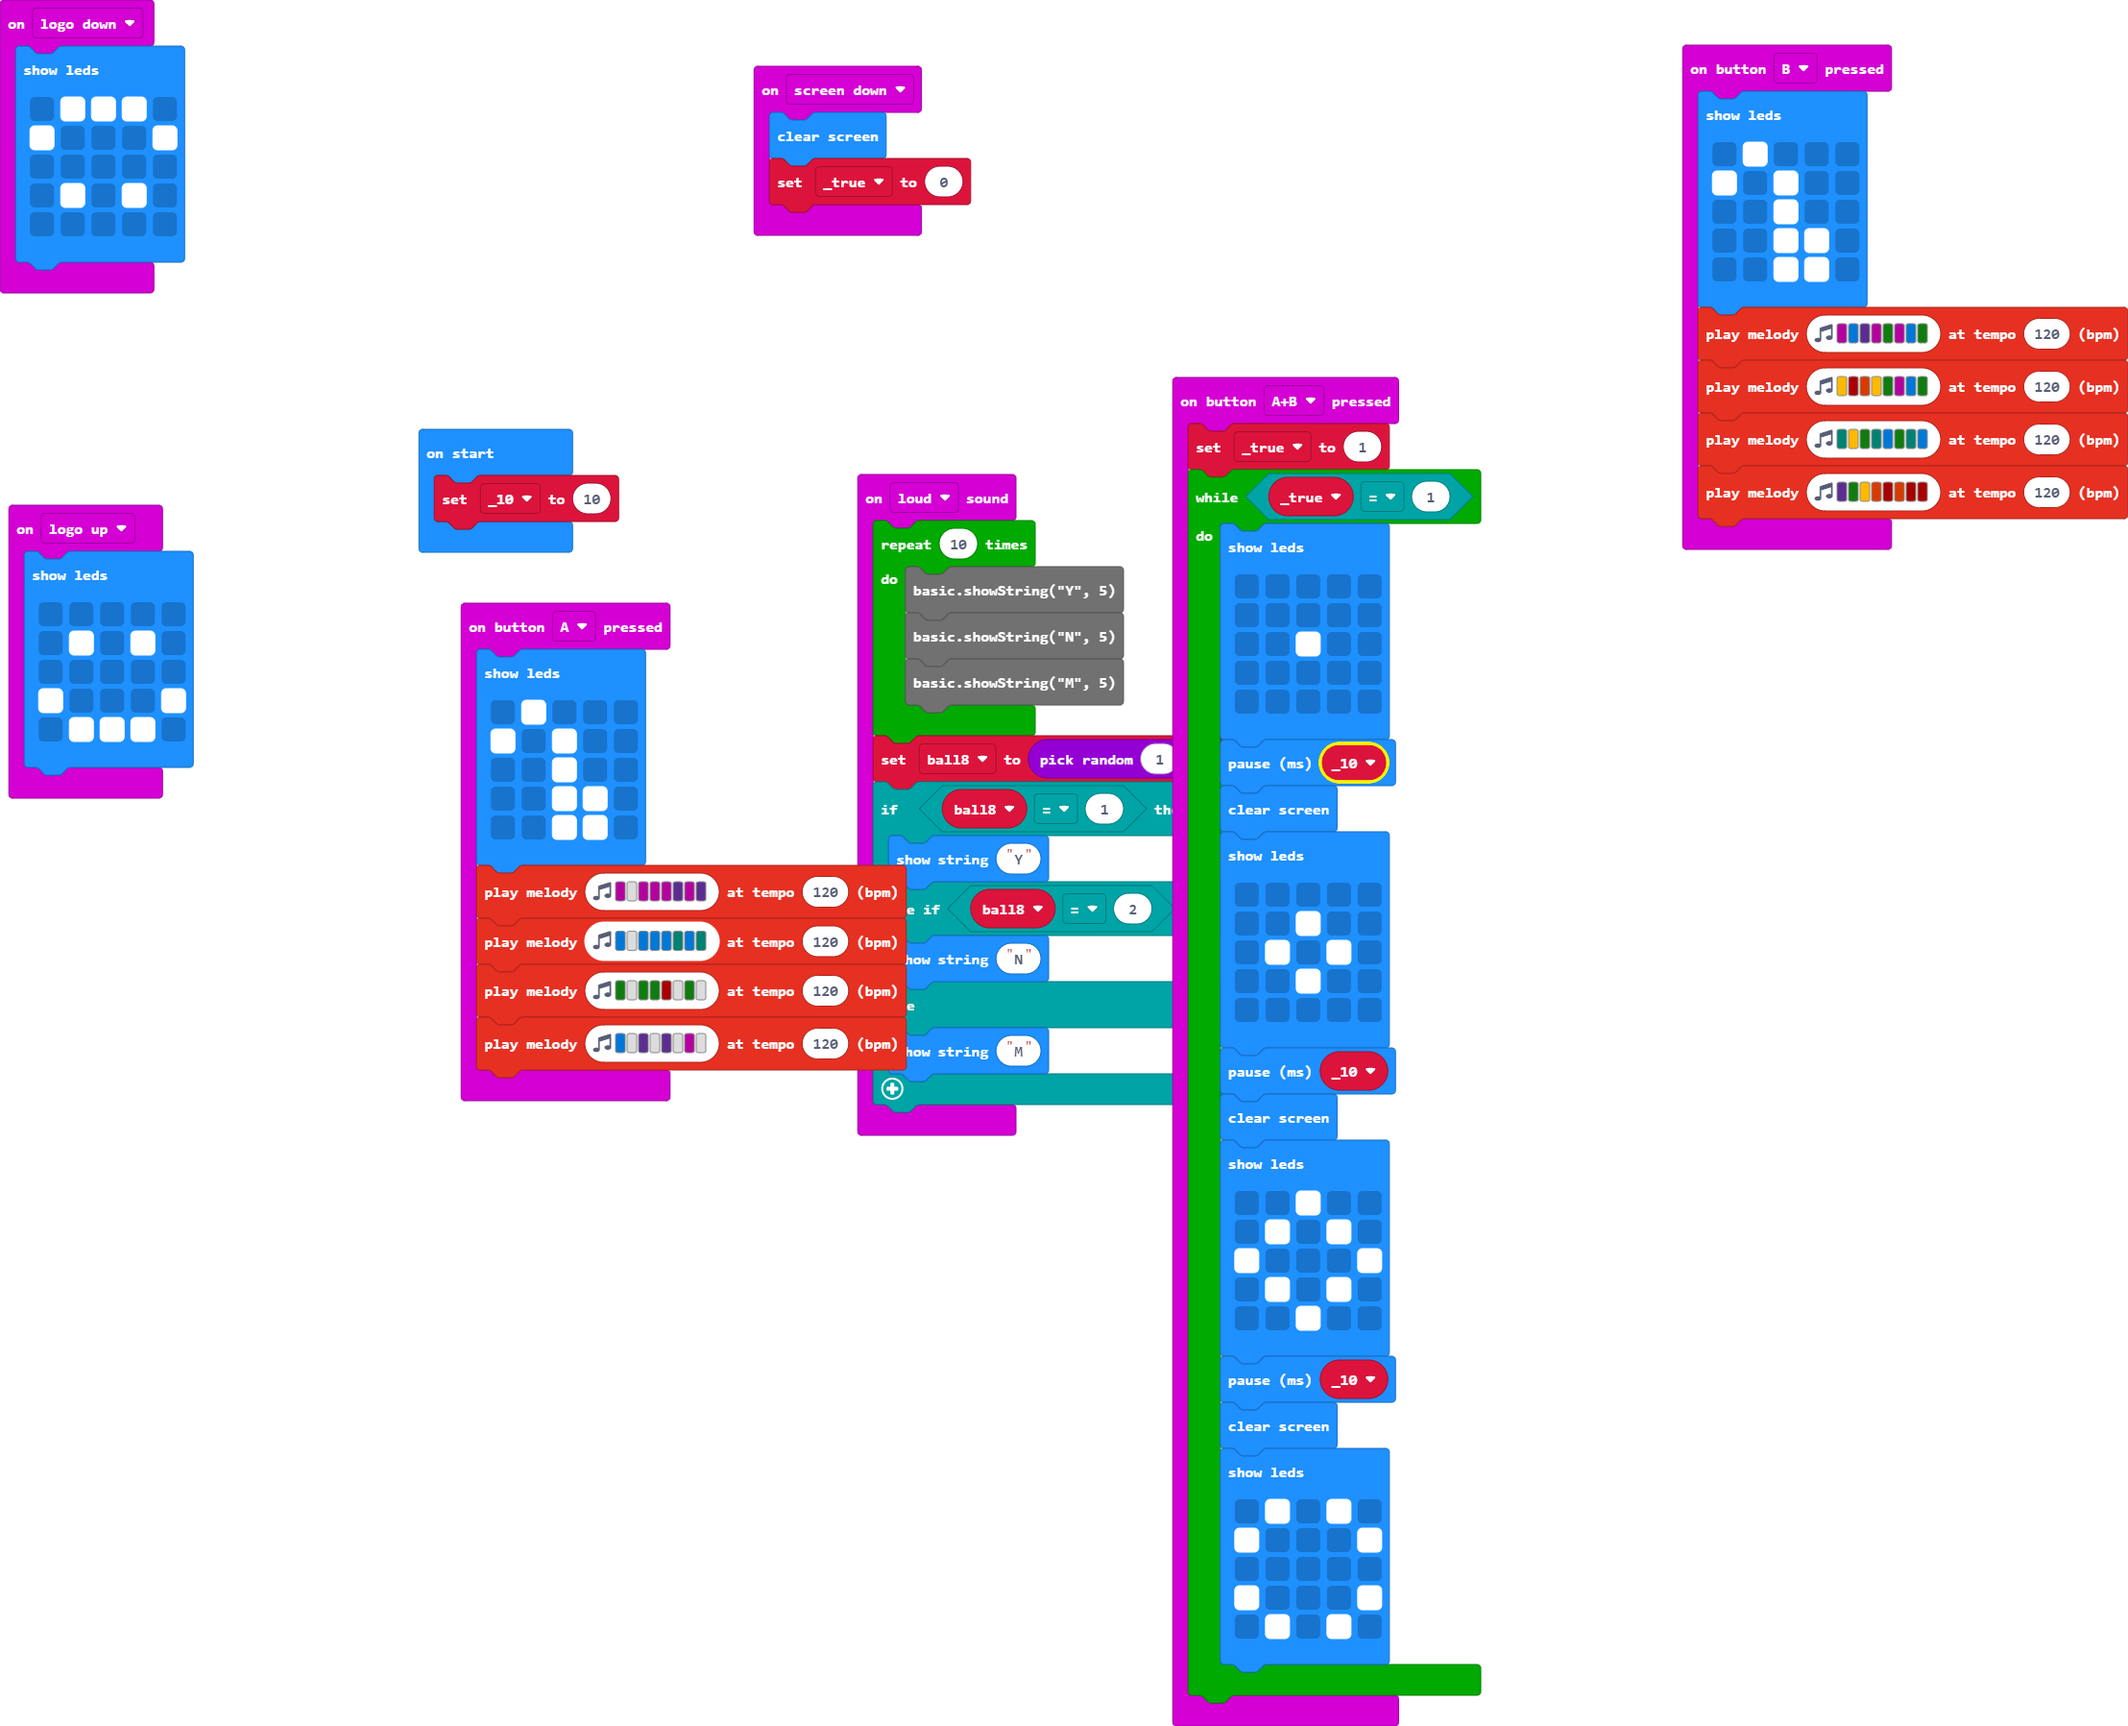
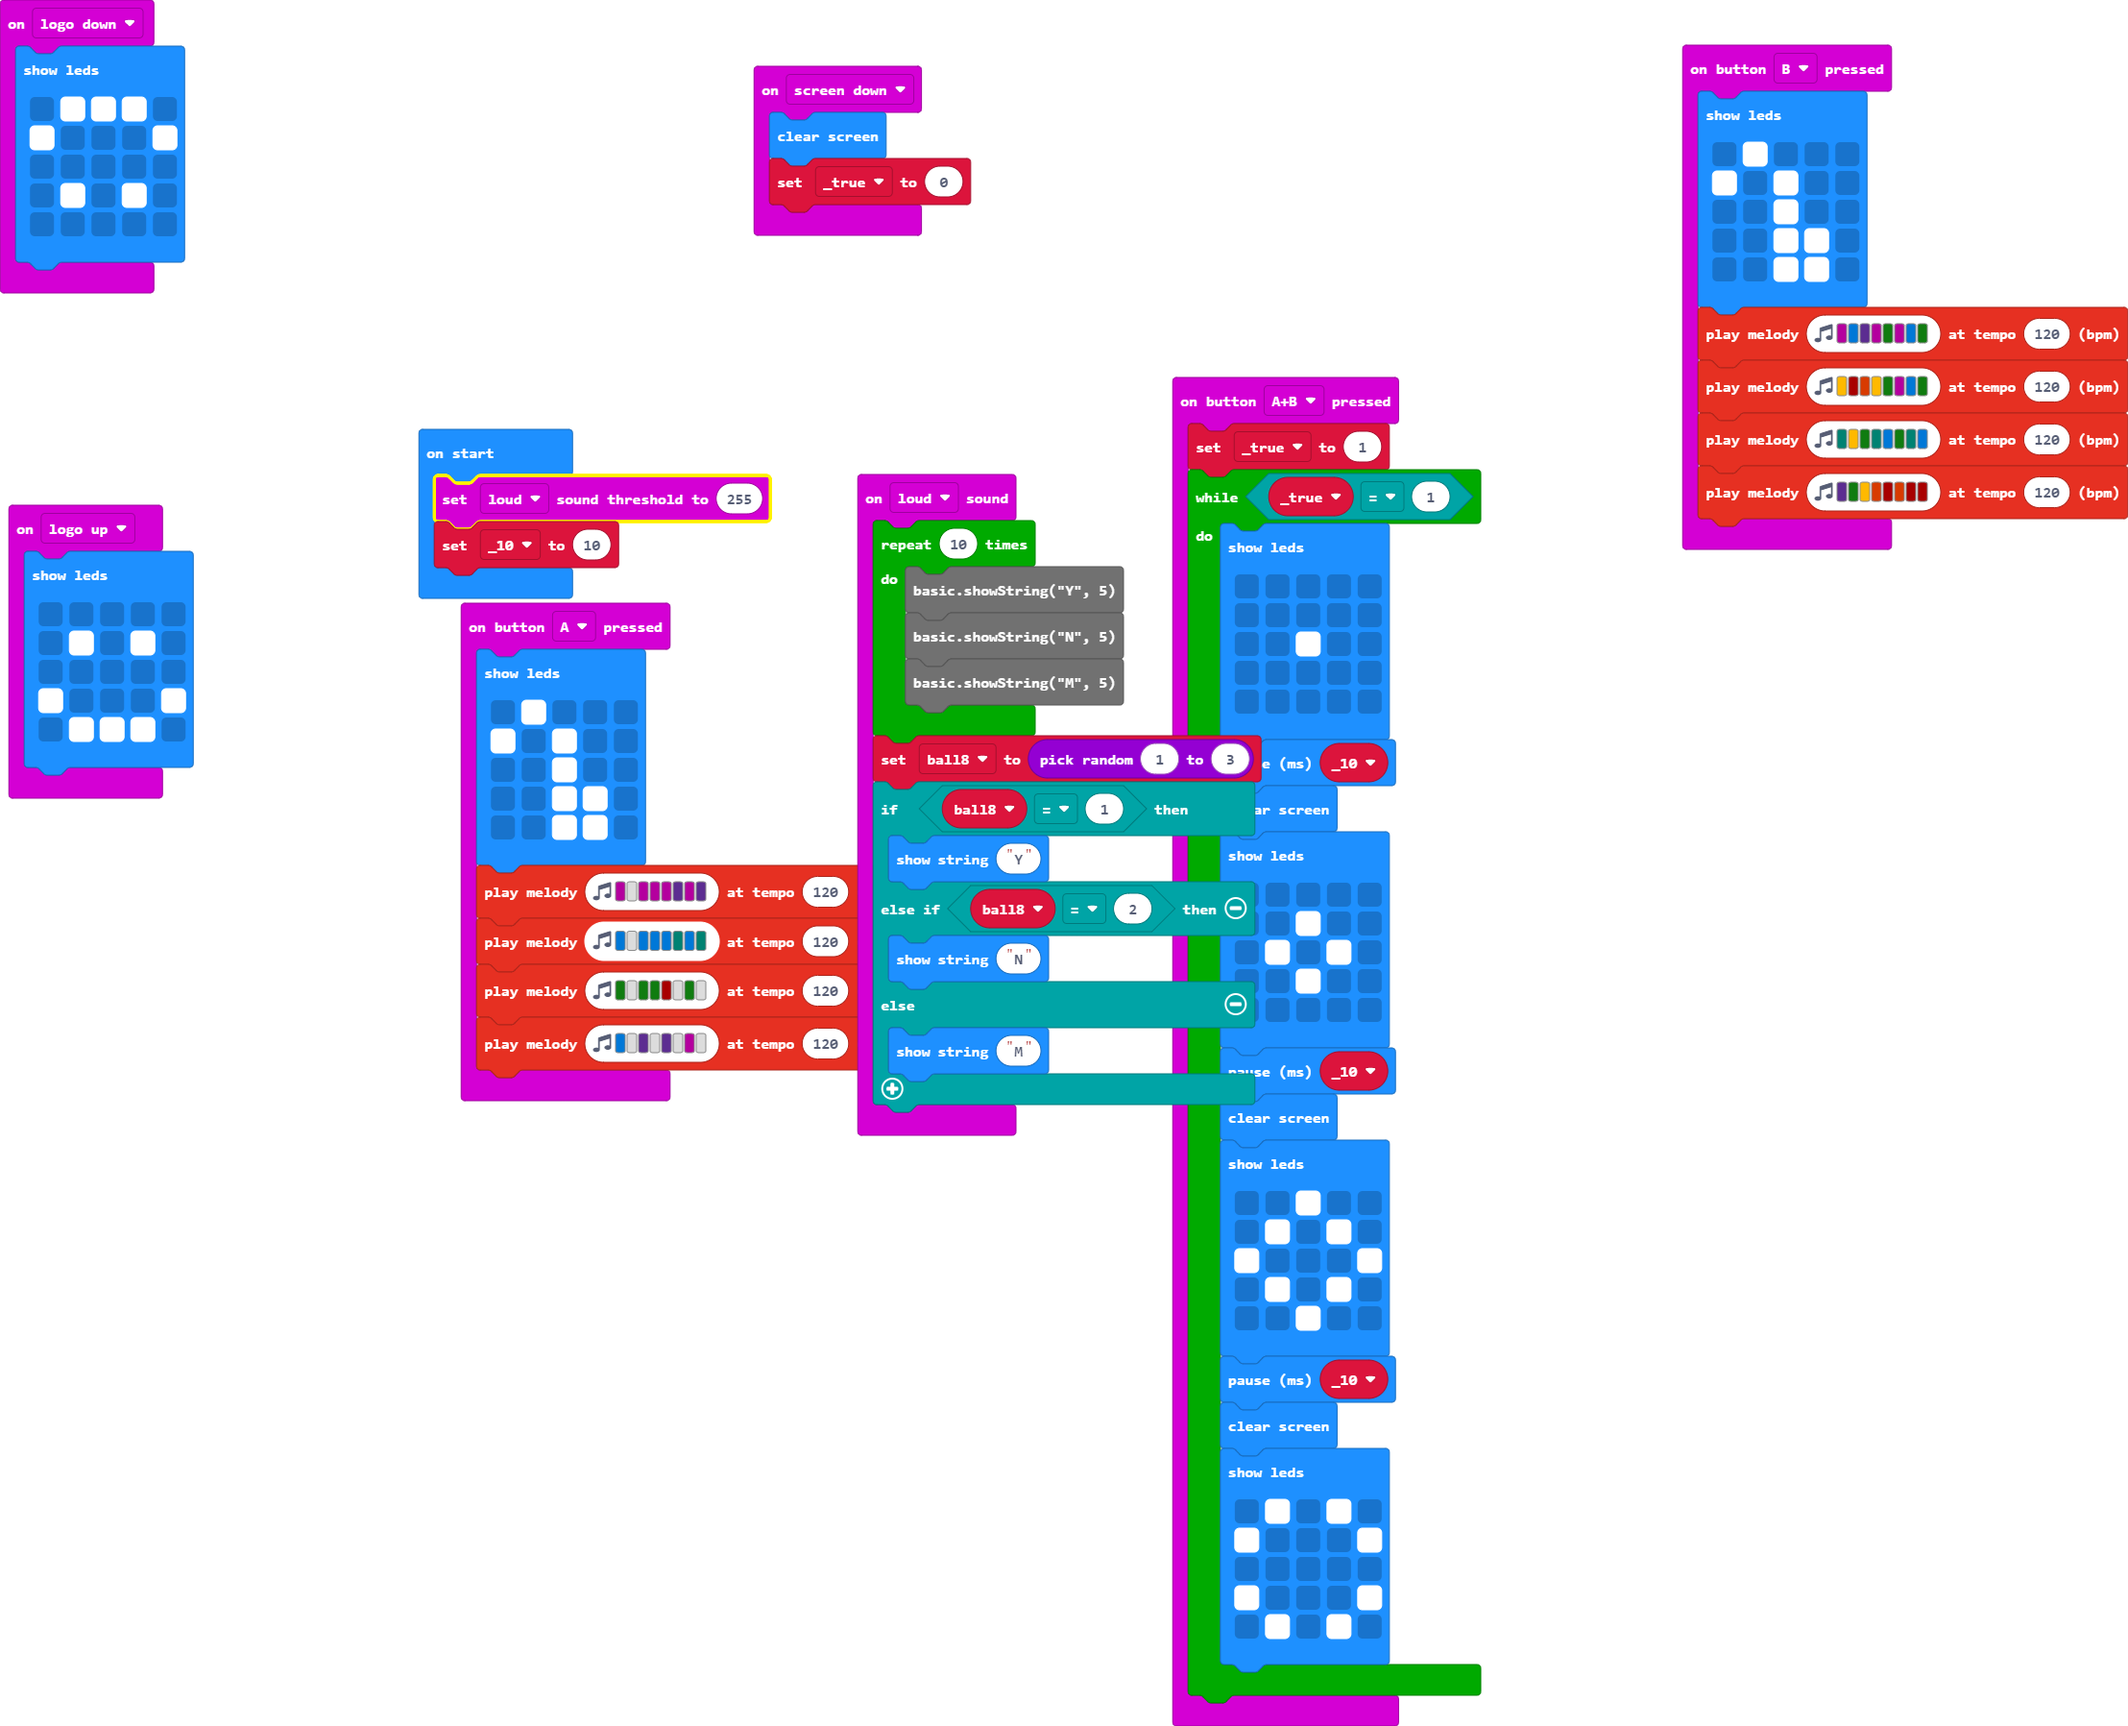
Update main.blocks, main.ts

Changed region(s): [[0.1868, 0.2493, 0.3736, 0.374], [0.5293, 0.4051, 0.5916, 0.6544], [0.4048, 0.4986, 0.4359, 0.6233]]

diff --git a/main.ts b/main.ts
@@ -103,4 +103,5 @@ input.onGesture(Gesture.LogoDown, function () {
 let ball8 = 0
 let _true = 0
 let _10 = 0
+input.setSoundThreshold(SoundThreshold.Loud, 255)
 _10 = 10
